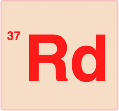
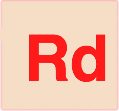
playing with the layout

Changed region(s): [[0.0504, 0.2703, 0.1765, 0.3784], [0.0, 0.2432, 0.0252, 0.3784]]

diff --git a/app/assets/stylesheets/items.css.scss b/app/assets/stylesheets/items.css.scss
@@ -15,9 +15,14 @@ body {
     margin-top: .5em; 
     color: white;
     }
-    span.pull-right a:nth-of-type(odd) { border-right: solid white 2px; padding-right: 5px; }
   } // ....
 }
+
+.navbar > .navbar-inner {
+  background-color: whiteSmoke;
+  background-image: none;
+}
+
 .item-type { font-size: 1.2em; color: #9cf; }
 .item-name { font-weight: bold; }
 #list { list-style: none; overflow-y: auto; overflow-x: hidden; }
@@ -27,7 +32,9 @@ body {
 #list li p a { font-size: .8em;}
 .term { font-size: 1em; }
 .control { font-size: .8em; }
-.logo { font-size: 1.8em; color: white; vertical-align: middle; }
+.logo { font-size: 16px; font-weight: bold; color: #ff1b19; vertical-align: middle; }
+.navbar .brand { color: #999; }
+.navbar-inner .subtitle { color: #999; }
 .rd-logo { font-size: 16px; padding: 8px 8px 2px 2px; background-color:
   #ffe8cc; }
 
